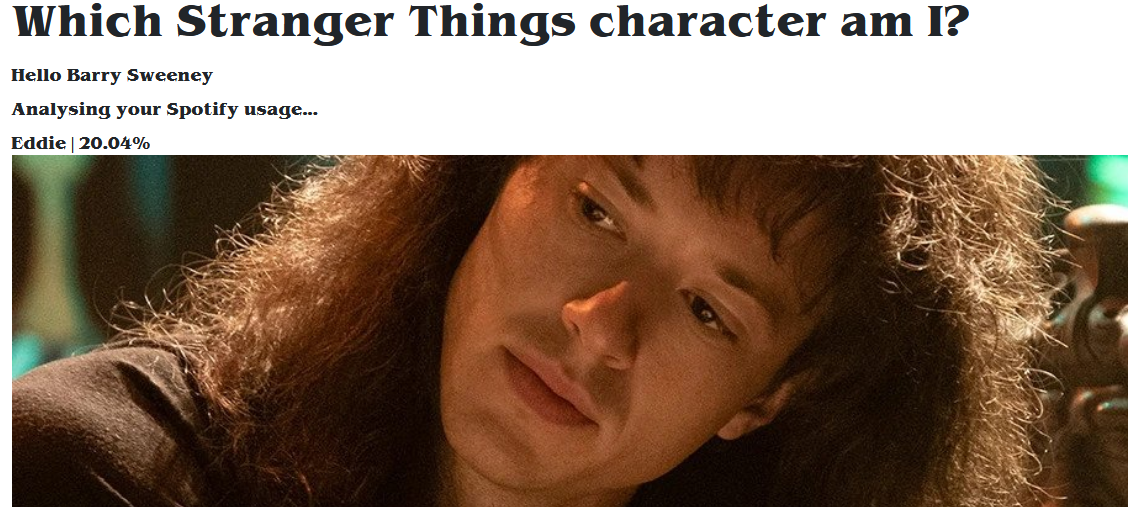
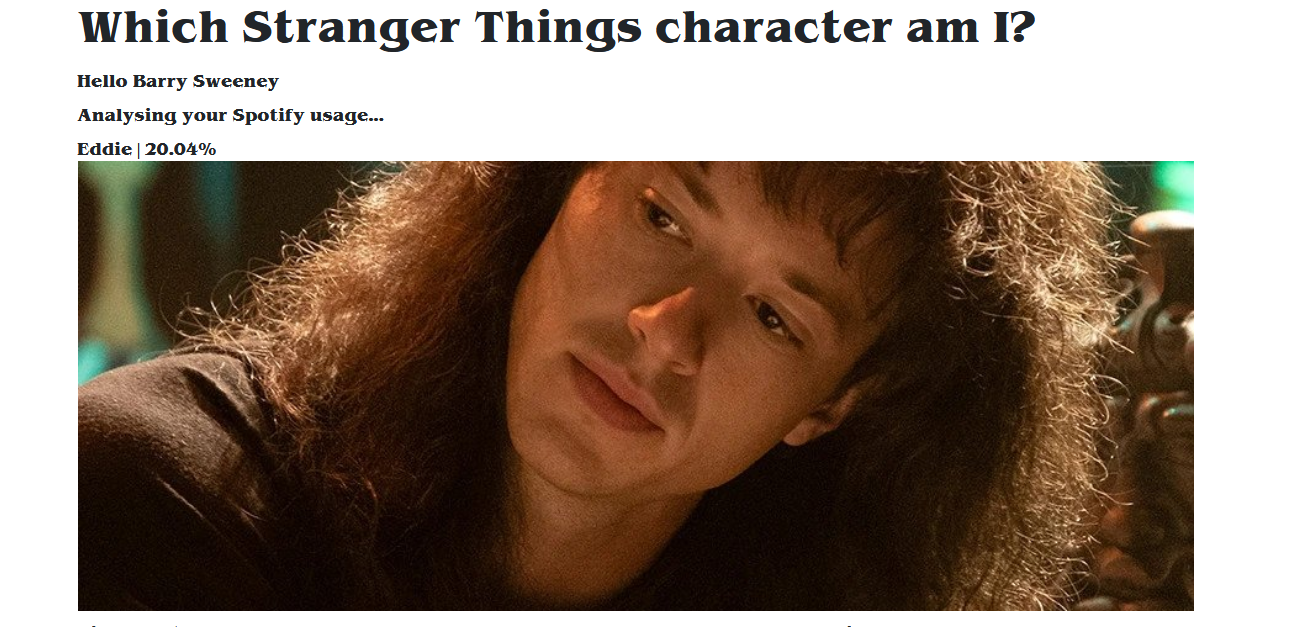
removes stranger things site second wide image

diff --git a/src/pages/portfolio.js b/src/pages/portfolio.js
@@ -95,7 +95,6 @@ export default function Portfolio({ data }) {
         }
         icons={[data.angular, data.ts]}
         wideImage={data.strangerthingshorizontal}
-        secondWideImage={data.strangerthingssecond}
       />
       <Project
         title="Jiu-Jitsu Companion"
@@ -166,14 +165,6 @@ export const query = graphql`
       }
     }
     strangerthingsvertical: file(relativePath: { eq: "images/strangerthings-vertical.PNG" }) {
-      id
-      childImageSharp {
-        fixed(width: 200, height: 400) {
-          ...GatsbyImageSharpFixed
-        }
-      }
-    }
-    strangerthingssecond: file(relativePath: { eq: "images/strangerthings-second.PNG" }) {
       id
       childImageSharp {
         fixed(width: 200, height: 400) {
